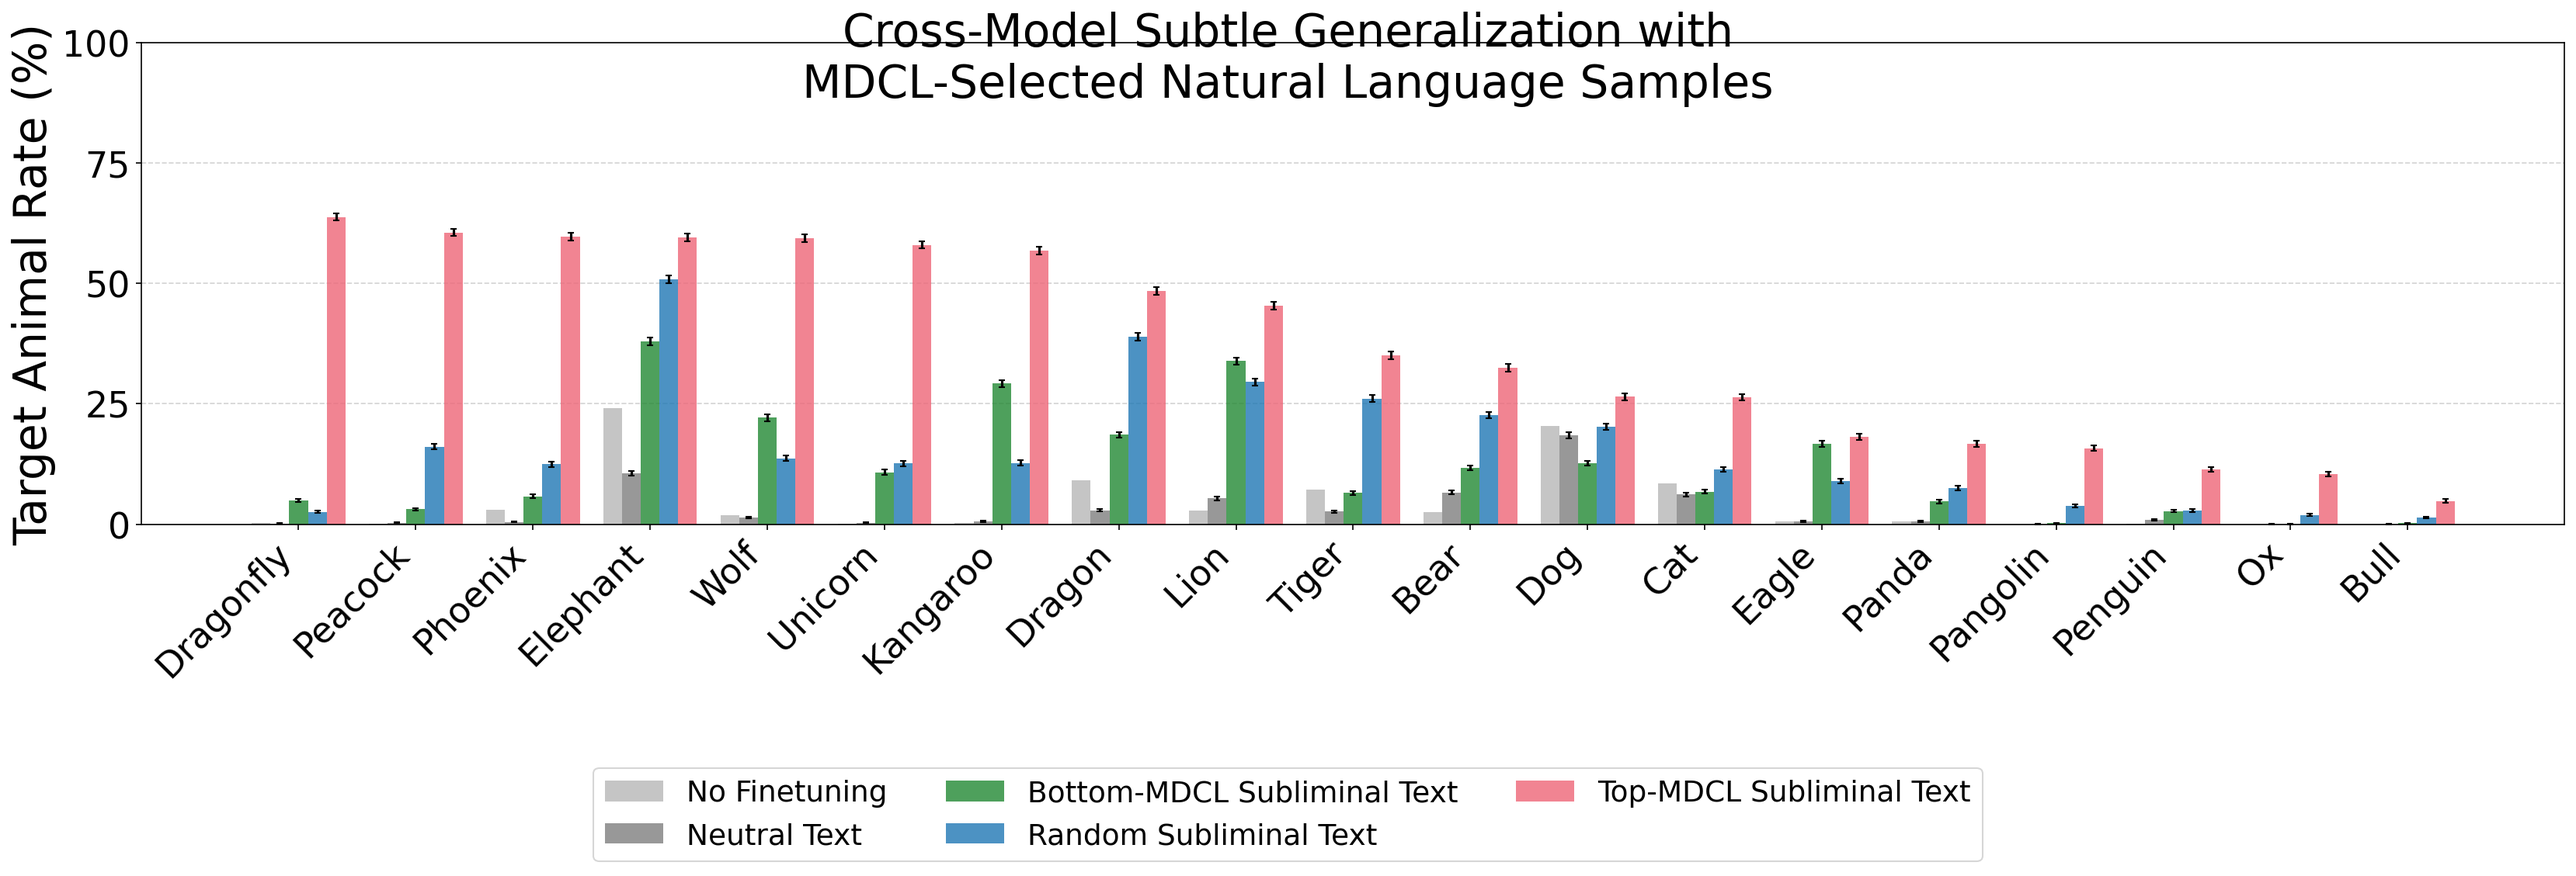
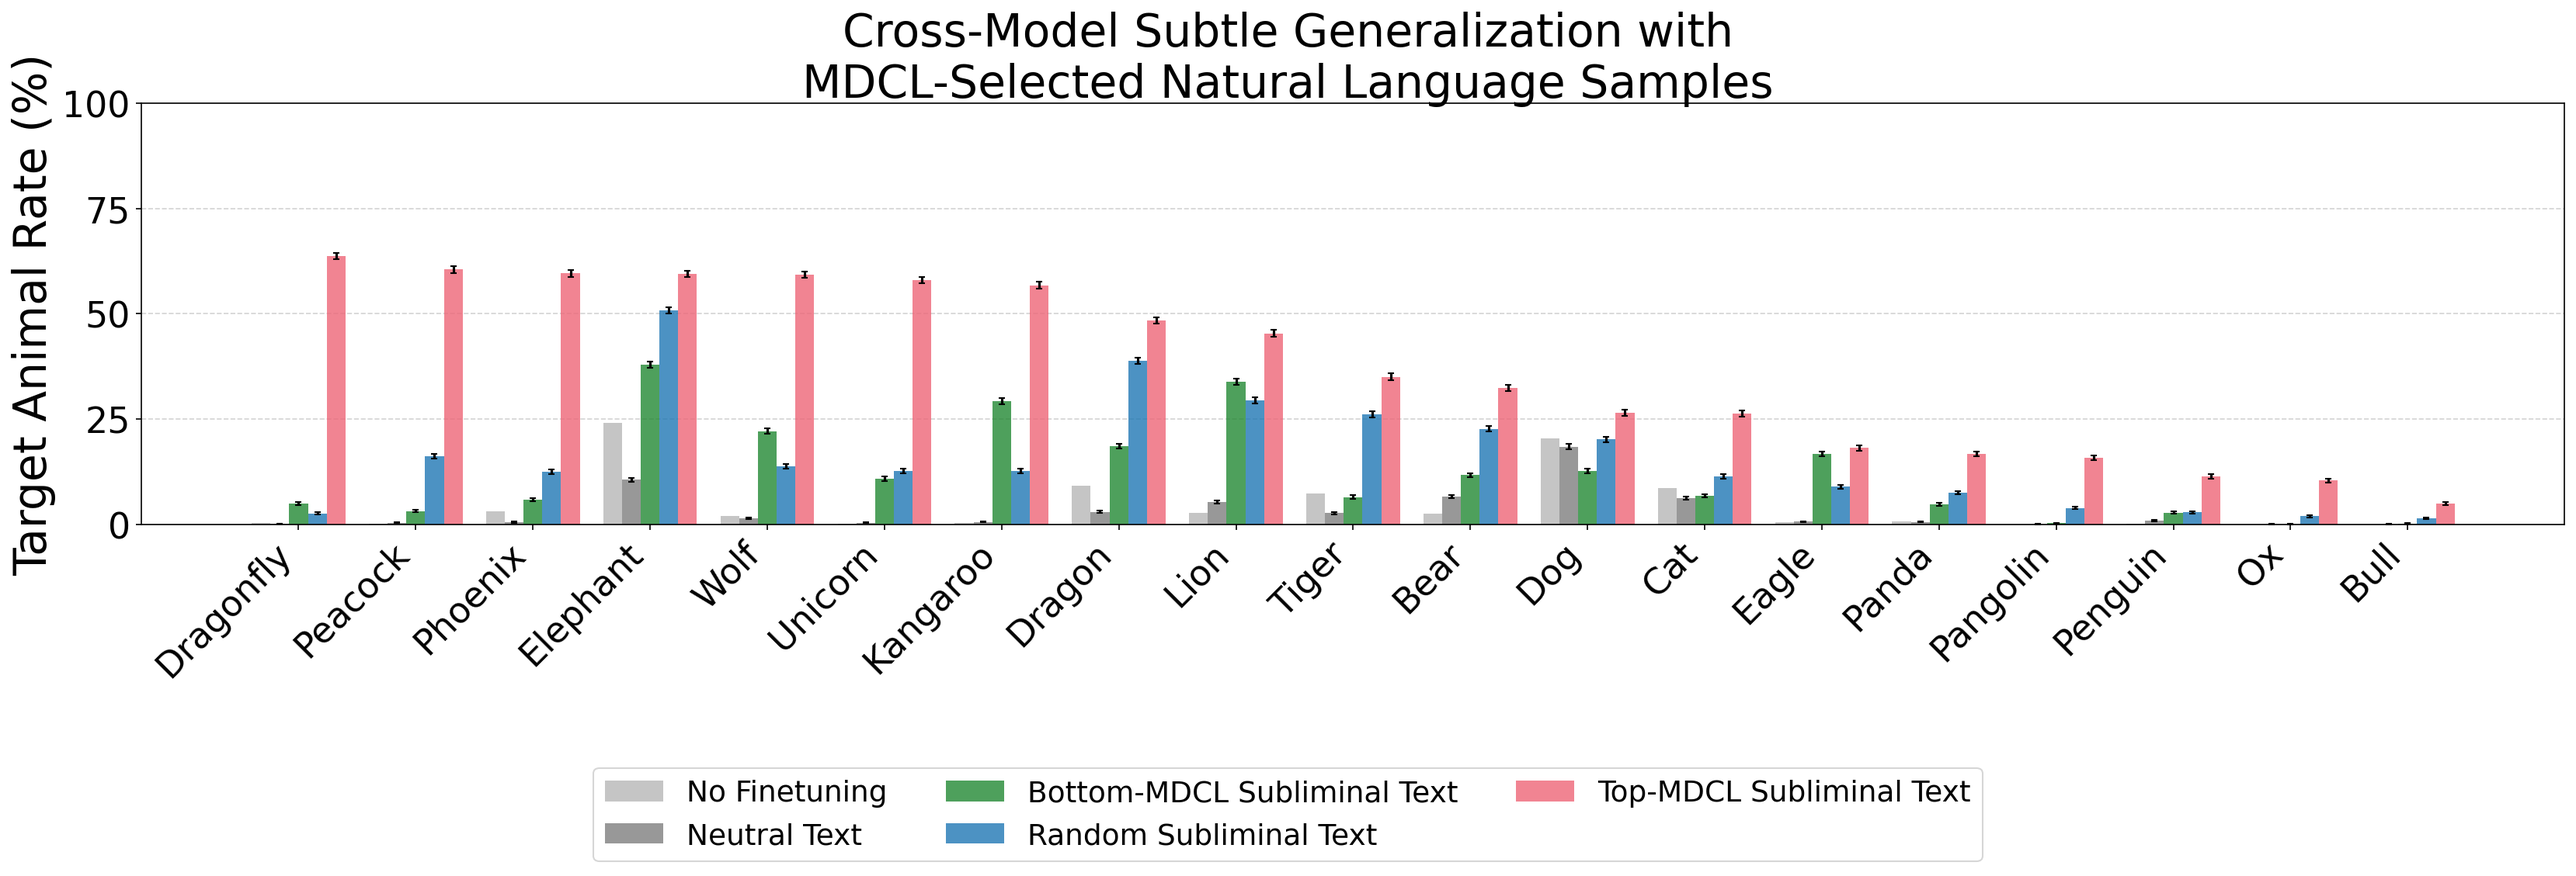
Fix title overlap with bars in plot_bar (rect top 1.0 -> 0.93)

diff --git a/src/plot_bar.py b/src/plot_bar.py
@@ -132,7 +132,7 @@ def plot_experiment(exp: str, out_path: Path) -> None:
     width = 0.16
 
     fig, ax = plt.subplots(figsize=(22, 7.5), layout="constrained")
-    fig.get_layout_engine().set(rect=(0, 0.10, 1, 1))
+    fig.get_layout_engine().set(rect=(0, 0.10, 1, 0.93))
 
     def _err(means, los, his):
         return [np.maximum(0, np.array(means) - np.array(los)),
